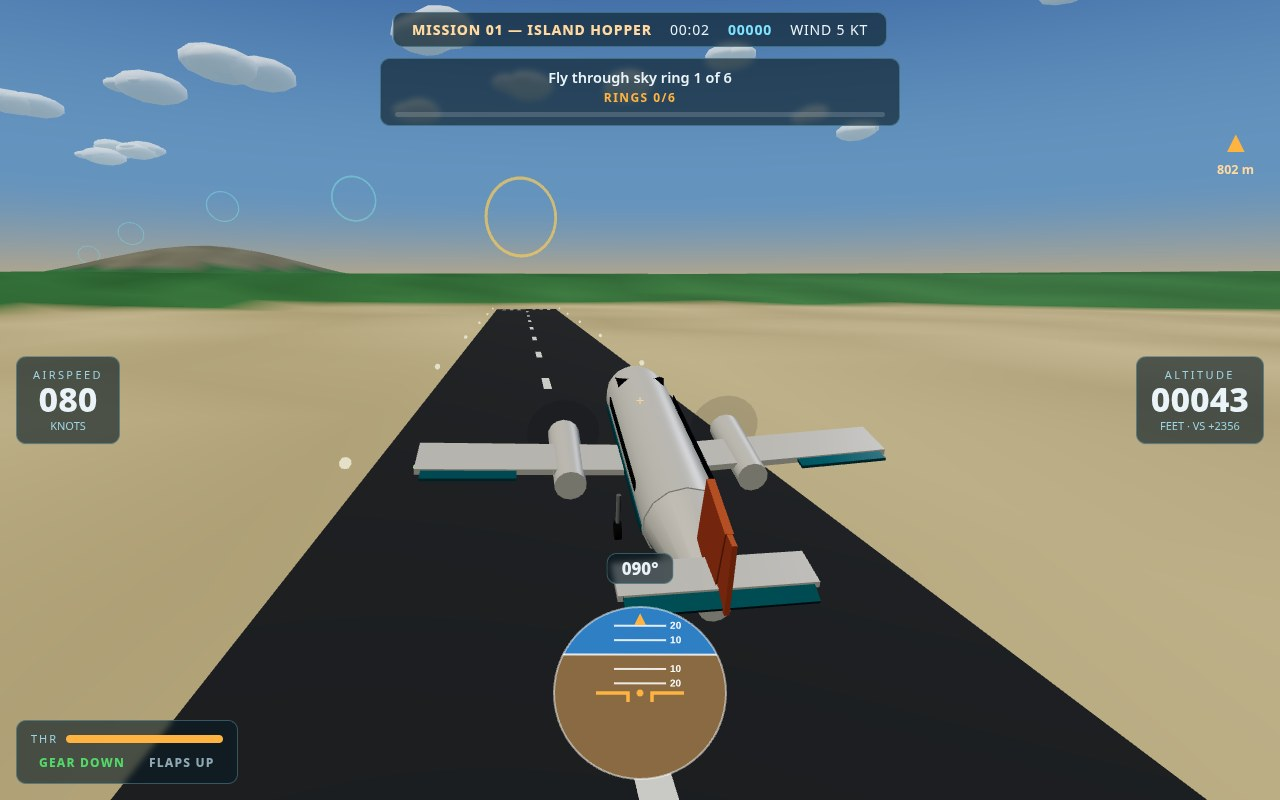
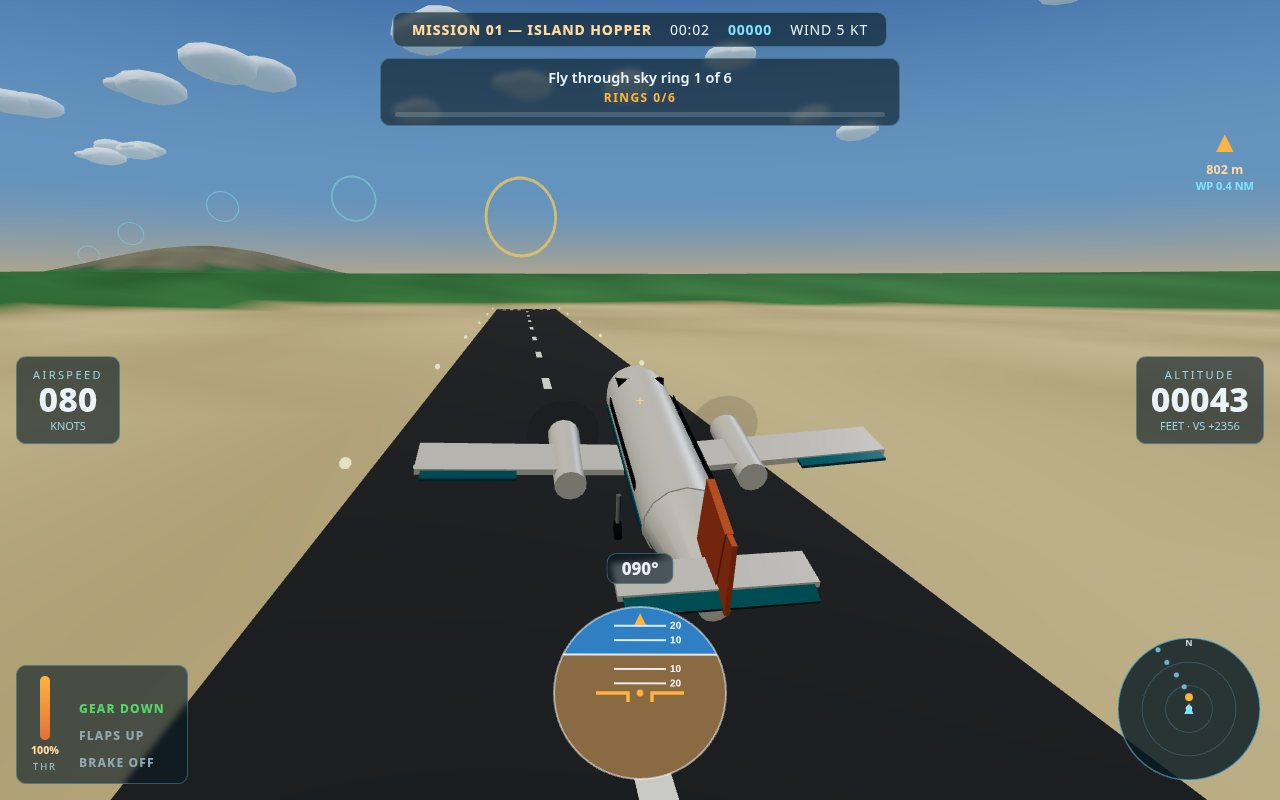
UI upgrade: glass mission panel with select + launch, radar scope, WP NM, vertical THR, brake chip (polish adopted from the Gemini original)

Changed region(s): [[0.0, 0.8125, 0.1875, 0.9688], [0.875, 0.7812, 1.0, 1.0], [0.9375, 0.1562, 1.0, 0.25]]

diff --git a/game/index.html b/game/index.html
@@ -31,25 +31,37 @@
   #hud-adist { font-size: 12.5px; font-weight: 700; color: #ffd9a0; }
   #hud-sys { position: absolute; left: 16px; bottom: 16px; padding: 10px 14px; display: flex; flex-direction: column; gap: 6px; min-width: 168px; }
   #thr-track { height: 8px; background: rgba(255,255,255,0.15); border-radius: 4px; overflow: hidden; }
-  #hud-thr { height: 100%; width: 0%; background: #ffb340; }
+  #hud-thr { height: 0%; width: 100%; background: linear-gradient(180deg, #ffb340, #e2703a); }
   .chip { font-size: 12px; font-weight: 800; letter-spacing: 0.1em; padding: 2px 8px; border-radius: 5px; display: inline-block; }
   .chip.ok { color: #53d769; } .chip.dim { color: #8fa8b3; } .chip.warn { color: #ffb340; }
   .sysrow { display: flex; gap: 8px; align-items: center; font-size: 11px; letter-spacing: 0.18em; color: #9fd4e2; }
   #hud-panel { position: absolute; bottom: 12px; left: 50%; transform: translateX(-50%); }
   #cross { position: absolute; top: 50%; left: 50%; transform: translate(-50%, -50%); color: rgba(255, 220, 150, 0.85); font-size: 15px; }
   /* Menu + debrief */
-  .overlay { position: fixed; inset: 0; display: flex; flex-direction: column; align-items: center; justify-content: center; padding-bottom: 170px; background: linear-gradient(180deg, rgba(6,20,30,0.25) 0%, rgba(6,20,30,0.62) 78%); z-index: 5; }
-  .overlay h1 { font-size: 58px; font-weight: 900; letter-spacing: 0.04em; text-shadow: 0 4px 26px rgba(0,0,0,0.55); }
-  .overlay h1 span { color: #ffb340; }
-  .overlay .sub { font-size: 16.5px; color: #cfe8f2; margin: 6px 0 22px; text-shadow: 0 2px 10px rgba(0,0,0,0.6); }
-  .cards { display: flex; gap: 14px; flex-wrap: wrap; justify-content: center; max-width: 1060px; padding: 0 12px; }
-  .card { width: 238px; padding: 14px 16px; cursor: pointer; pointer-events: auto; transition: transform 0.12s, border-color 0.12s; }
-  .card:hover { transform: translateY(-3px); border-color: #ffb340; }
-  .card h3 { font-size: 15.5px; color: #ffd9a0; margin-bottom: 6px; }
-  .card p { font-size: 12.5px; line-height: 1.45; color: #cfe0e8; min-height: 54px; }
-  .card .best { font-size: 12px; color: #7fe3ff; font-weight: 700; margin-top: 6px; }
-  .controls { margin-top: 22px; font-size: 12.5px; color: #b9d2dc; letter-spacing: 0.04em; text-align: center; line-height: 1.7; text-shadow: 0 1px 6px rgba(0,0,0,0.7); }
-  .controls b { color: #ffd9a0; }
+  .overlay { position: fixed; inset: 0; display: flex; flex-direction: column; align-items: center; justify-content: center; padding-bottom: 150px; background: linear-gradient(180deg, rgba(6,20,30,0.30) 0%, rgba(6,20,30,0.55) 80%); backdrop-filter: blur(2.5px); z-index: 5; }
+  #menu-panel { width: 780px; max-width: 94vw; padding: 26px 30px 20px; text-align: center; pointer-events: auto; border-radius: 18px; background: rgba(10, 24, 38, 0.88); border: 1px solid rgba(110, 190, 220, 0.35); box-shadow: 0 24px 70px rgba(0,0,0,0.5); }
+  #menu-panel .pill { display: inline-block; font-size: 11px; font-weight: 800; letter-spacing: 0.3em; color: #6ec8ec; border: 1px solid rgba(110,200,236,0.55); border-radius: 20px; padding: 4px 14px; margin-bottom: 10px; }
+  #menu-panel h1 { font-size: 46px; font-weight: 900; letter-spacing: 0.05em; color: #fff; }
+  #menu-panel h1 span { color: #4db8e8; }
+  #menu-panel .sub { font-size: 14.5px; color: #a9c6d4; margin: 2px 0 18px; }
+  .cards { display: grid; grid-template-columns: 1fr 1fr; gap: 12px; }
+  .card { padding: 13px 16px; cursor: pointer; pointer-events: auto; text-align: center; border-radius: 12px; background: rgba(24, 44, 62, 0.65); border: 1.5px solid rgba(120,170,200,0.25); transition: transform 0.12s, border-color 0.12s, background 0.12s; }
+  .card:hover { transform: translateY(-2px); }
+  .card.selected { border-color: #4db8e8; background: rgba(23, 78, 104, 0.75); box-shadow: 0 0 0 1px #4db8e8, 0 8px 26px rgba(30,120,170,0.35); }
+  .card .ctype { font-size: 10.5px; font-weight: 800; letter-spacing: 0.22em; color: #6ec8ec; }
+  .card h3 { font-size: 16.5px; color: #fff; margin: 3px 0 4px; }
+  .card p { font-size: 12.5px; line-height: 1.45; color: #b9cfdb; min-height: 36px; }
+  .card .best { font-size: 11.5px; color: #ffb340; font-weight: 800; letter-spacing: 0.08em; margin-top: 4px; }
+  #btn-launch { margin-top: 18px; width: 100%; padding: 14px; font-size: 16.5px; font-weight: 900; letter-spacing: 0.18em; color: #fff; background: linear-gradient(90deg, #0e8fd0, #2f6fe4); border: 0; border-radius: 10px; cursor: pointer; pointer-events: auto; box-shadow: 0 10px 30px rgba(20,110,200,0.45); }
+  #btn-launch:hover { filter: brightness(1.12); }
+  .keys { margin-top: 16px; display: flex; gap: 13px; justify-content: center; flex-wrap: wrap; font-size: 11.5px; color: #8fb0c0; }
+  .keys b { color: #6ec8ec; border: 1px solid rgba(110,200,236,0.5); border-radius: 5px; padding: 1px 6px; font-weight: 800; margin-right: 4px; }
+  #hud-radar { position: absolute; right: 16px; bottom: 16px; border-radius: 50%; }
+  #hud-wp { font-size: 11px; color: #7fe3ff; font-weight: 700; }
+  #thr-col { display: flex; flex-direction: column; align-items: center; gap: 3px; }
+  #thr-track-v { width: 10px; height: 64px; background: rgba(255,255,255,0.15); border-radius: 5px; display: flex; flex-direction: column-reverse; overflow: hidden; }
+  #hud-thr { width: 100%; background: linear-gradient(180deg, #ffb340, #e2703a); }
+  #hud-thrpct { font-size: 10.5px; font-weight: 800; color: #ffd9a0; }
   #debrief { display: none; }
   #deb-card { width: 430px; max-width: 92vw; padding: 22px 26px; text-align: center; pointer-events: auto; }
   #deb-card h2 { font-size: 25px; color: #ffd9a0; margin-bottom: 8px; }
@@ -67,21 +79,32 @@
     <div class="tape glass" id="tape-r"><div class="lab">ALTITUDE</div><div class="val" id="hud-alt">00000</div><div class="unit">FEET · VS <span id="hud-vs">+0000</span></div></div>
     <div id="hud-hdg" class="glass">000°</div>
     <div id="hud-alert"></div>
-    <div id="hud-target"><span id="hud-arrow">▲</span><div id="hud-adist"></div></div>
+    <div id="hud-target"><span id="hud-arrow">▲</span><div id="hud-adist"></div><div id="hud-wp"></div></div>
     <div id="hud-sys" class="glass">
-      <div class="sysrow">THR<div id="thr-track" style="flex:1"><div id="hud-thr"></div></div></div>
-      <div class="sysrow"><span id="hud-gear" class="chip ok">GEAR DOWN</span><span id="hud-flaps" class="chip dim">FLAPS UP</span></div>
+      <div style="display:flex; gap:12px; align-items:flex-end;">
+        <div id="thr-col"><div id="thr-track-v"><div id="hud-thr"></div></div><span id="hud-thrpct">0%</span><span style="font-size:9.5px; letter-spacing:0.2em; color:#9fd4e2;">THR</span></div>
+        <div style="display:flex; flex-direction:column; gap:6px;">
+          <span id="hud-gear" class="chip ok">GEAR DOWN</span>
+          <span id="hud-flaps" class="chip dim">FLAPS UP</span>
+          <span id="hud-brake" class="chip dim">BRAKE OFF</span>
+        </div>
+      </div>
     </div>
+    <canvas id="hud-radar" width="150" height="150"></canvas>
     <canvas id="hud-panel" width="300" height="190"></canvas>
     <div id="cross">+</div>
   </div>
 
   <div id="menu" class="overlay">
-    <h1>AERO<span>PILOT</span> 3D</h1>
-    <div class="sub">Twin-turboprop flight simulator — Emerald Bay to Coral Atoll. Take off, thread the rings, grease the landing.</div>
-    <div class="cards" id="menu-cards"></div>
-    <div class="controls">
-      <b>W/S</b> pitch · <b>A/D</b> roll · <b>Q/E</b> throttle · <b>F</b> flaps · <b>G</b> gear · <b>B</b> brakes · <b>C</b> camera · <b>R</b> restart · <b>Esc</b> menu
+    <div id="menu-panel">
+      <div class="pill">3D FLIGHT SIMULATOR</div>
+      <h1>AEROPILOT <span>3D</span></h1>
+      <div class="sub">Island Wings — twin-turboprop aviation over the Emerald Bay archipelago.</div>
+      <div class="cards" id="menu-cards"></div>
+      <button id="btn-launch">TAKE OFF / LAUNCH FLIGHT</button>
+      <div class="keys">
+        <span><b>W/S</b>Pitch</span><span><b>A/D</b>Roll</span><span><b>Q/E</b>Throttle</span><span><b>F</b>Flaps</span><span><b>G</b>Gear</span><span><b>B</b>Brakes</span><span><b>C</b>Camera</span><span><b>R</b>Restart</span>
+      </div>
     </div>
   </div>
 

diff --git a/game/src/hud.js b/game/src/hud.js
@@ -1,15 +1,16 @@
 // HUD facade: DOM tapes/cards plus the canvas attitude panel.
-import { KT, FPM, FT } from './config.js';
+import { KT, FPM, FT, AIRPORTS } from './config.js';
 
 const el = {};
 export function initHud() {
   for (const id of ['mname', 'timer', 'score', 'obj', 'rings', 'prog', 'spd', 'alt', 'vs', 'hdg',
-    'thr', 'gear', 'flaps', 'alert', 'arrow', 'adist', 'panel', 'wind']) el[id] = document.getElementById('hud-' + id);
+    'thr', 'thrpct', 'gear', 'flaps', 'brake', 'alert', 'arrow', 'adist', 'wp', 'panel', 'wind', 'radar']) el[id] = document.getElementById('hud-' + id);
   el.ctx = el.panel ? el.panel.getContext('2d') : null;
+  el.rctx = el.radar ? el.radar.getContext('2d') : null;
 }
 const fmt = (n, w) => String(Math.max(0, Math.round(n))).padStart(w, '0');
 
-export function updateHud(st, p, alert, target) {
+export function updateHud(st, p, alert, target, brake) {
   if (!el.mname) return;
   el.mname.textContent = st ? st.m.name : '';
   if (st) {
@@ -29,7 +30,12 @@ export function updateHud(st, p, alert, target) {
   el.vs.textContent = (vs >= 0 ? '+' : '−') + fmt(Math.abs(vs), 4);
   let hdg = Math.round(p.heading * 180 / Math.PI) % 360; if (hdg < 0) hdg += 360;
   el.hdg.textContent = fmt(hdg, 3) + '°';
-  el.thr.style.width = Math.round(p.throttle * 100) + '%';
+  el.thr.style.height = Math.round(p.throttle * 100) + '%';
+  if (el.thrpct) el.thrpct.textContent = Math.round(p.throttle * 100) + '%';
+  if (el.brake) {
+    el.brake.textContent = brake ? 'BRAKE ON' : 'BRAKE OFF';
+    el.brake.className = 'chip ' + (brake ? 'warn' : 'dim');
+  }
   el.gear.textContent = p.gearT > 0.85 ? 'GEAR DOWN' : p.gearT < 0.15 ? 'GEAR UP' : 'GEAR MOVING';
   el.gear.className = 'chip ' + (p.gearT > 0.85 ? 'ok' : p.gearT < 0.15 ? 'dim' : 'warn');
   el.flaps.textContent = 'FLAPS ' + ['UP', '1', 'FULL'][p.flaps];
@@ -41,10 +47,40 @@ export function updateHud(st, p, alert, target) {
     const bearing = Math.atan2(dx, -dz);
     let rel = bearing - p.heading;
     el.arrow.style.transform = `rotate(${rel * 180 / Math.PI}deg)`;
-    el.adist.textContent = Math.round(Math.hypot(dx, dz, target.y - p.y)) + ' m';
+    const dist = Math.hypot(dx, dz, target.y - p.y);
+    el.adist.textContent = Math.round(dist) + ' m';
+    if (el.wp) el.wp.textContent = 'WP ' + (dist / 1852).toFixed(1) + ' NM';
     el.arrow.style.opacity = '1';
-  } else el.arrow.style.opacity = '0';
+  } else { el.arrow.style.opacity = '0'; if (el.wp) el.wp.textContent = ''; }
+  drawRadar(st, p);
   drawPanel(p);
+}
+
+// Heading-up radar scope: airports and rings as blips around the aircraft.
+function drawRadar(st, p) {
+  const c = el.rctx; if (!c) return;
+  const S = 150, C = S / 2, R = C - 4, RANGE = 4800;
+  c.clearRect(0, 0, S, S);
+  c.fillStyle = 'rgba(8, 26, 34, 0.82)';
+  c.beginPath(); c.arc(C, C, R, 0, Math.PI * 2); c.fill();
+  c.strokeStyle = 'rgba(110, 200, 236, 0.5)'; c.lineWidth = 1.5;
+  c.beginPath(); c.arc(C, C, R, 0, Math.PI * 2); c.stroke();
+  c.strokeStyle = 'rgba(110, 200, 236, 0.22)'; c.lineWidth = 1;
+  for (const f of [0.66, 0.33]) { c.beginPath(); c.arc(C, C, R * f, 0, Math.PI * 2); c.stroke(); }
+  const blip = (wx, wz, color, size) => {
+    const dx = wx - p.x, dz = wz - p.z;
+    const d = Math.hypot(dx, dz); if (d > RANGE) return;
+    const rel = Math.atan2(dx, -dz) - p.heading;
+    const r = (d / RANGE) * R;
+    c.fillStyle = color;
+    c.beginPath(); c.arc(C + Math.sin(rel) * r, C - Math.cos(rel) * r, size, 0, Math.PI * 2); c.fill();
+  };
+  for (const a of AIRPORTS) blip(a.x, a.z, '#ffffff', 3);
+  if (st) st.m.rings.forEach((r, i) => { if (i >= st.ringsPassed) blip(r.x, r.z, i === st.ringIdx ? '#ffb340' : 'rgba(127,227,255,0.75)', i === st.ringIdx ? 4 : 2.5); });
+  c.fillStyle = '#7fe3ff';
+  c.beginPath(); c.moveTo(C, C - 6); c.lineTo(C + 4.5, C + 5); c.lineTo(C - 4.5, C + 5); c.closePath(); c.fill();
+  c.fillStyle = 'rgba(234,246,251,0.85)';
+  c.font = '700 9px system-ui'; c.textAlign = 'center'; c.fillText('N', C, 12);
 }
 
 function drawPanel(p) {

diff --git a/game/src/main.js b/game/src/main.js
@@ -50,17 +50,26 @@ function showMenu() {
   setRings(scene, world, []);
   poseAircraft(craft, plane, null);
 }
+const TYPE_LABELS = { full_flight: 'FULL FLIGHT', rings_only: 'TIME TRIAL', landing_challenge: 'LANDING CHALLENGE', sandbox: 'SANDBOX · EXPLORATION' };
+let selectedId = 'island_hopper';
 function buildMenu() {
   const wrap = document.getElementById('menu-cards');
   wrap.innerHTML = '';
   for (const m of MISSIONS) {
     const card = document.createElement('div');
-    card.className = 'card glass';
-    card.innerHTML = `<h3>${m.name}</h3><p>${m.brief}</p><div class="best">${best[m.id] ? 'BEST ' + best[m.id] : 'NOT FLOWN YET'}</div>`;
-    card.onclick = () => { Sfx.init(); startMission(m.id, false); };
+    card.className = 'card' + (m.id === selectedId ? ' selected' : '');
+    card.dataset.id = m.id;
+    card.innerHTML = `<div class="ctype">${TYPE_LABELS[m.type] || 'MISSION'}</div><h3>${m.name.replace(/^MISSION \d+ — /, '')}</h3><p>${m.brief}</p><div class="best">${best[m.id] ? 'BEST ' + best[m.id] : 'NOT FLOWN YET'}</div>`;
+    card.onclick = () => {
+      selectedId = m.id;
+      wrap.querySelectorAll('.card').forEach((c) => c.classList.toggle('selected', c.dataset.id === selectedId));
+      Sfx.init();
+    };
+    card.ondblclick = () => { Sfx.init(); startMission(m.id, false); };
     wrap.appendChild(card);
   }
 }
+document.getElementById('btn-launch').onclick = () => { Sfx.init(); startMission(selectedId, false); };
 function startMission(id, autopilot) {
   const m = mission(id);
   plane = spawnFor(m);
@@ -101,6 +110,7 @@ document.getElementById('deb-menu').onclick = () => { buildMenu(); showMenu(); }
 
 addEventListener('keydown', (e) => {
   keys.add(e.code);
+  if (mode === 'menu' && e.code === 'Enter') { Sfx.init(); startMission(selectedId, false); return; }
   if (mode !== 'fly' || !plane) return;
   if (e.code === 'KeyF') { plane.flaps = (plane.flaps + 1) % 3; Sfx.servo(); }
   if (e.code === 'KeyG') { plane.gearDown = !plane.gearDown; Sfx.servo(); }
@@ -201,7 +211,7 @@ function frame() {
     let target = null;
     if (st.ringIdx < st.m.rings.length) target = st.m.rings[st.ringIdx];
     else if (st.m.targetAirport) { const th = threshold(airport(st.m.targetAirport)); target = { x: th.x, y: airport(st.m.targetAirport).elev + 10, z: th.z }; }
-    updateHud(st, plane, alert, target);
+    updateHud(st, plane, alert, target, !!(curInput && curInput.brake));
   }
   updateCamera(1 / 30);
   renderer.render(scene, camera);

diff --git a/entry-status.md b/entry-status.md
@@ -1,0 +1,27 @@
+# AEROPILOT 3D (best-flight-game-20261126-0057 VERSION 6) — entry status
+
+- Origin: Gemini-provided project zip from the owner (Thu 2026-11-26 18:32 WIB,
+  `~/workspace/user/files/aeropilot-3d-makefun.zip`: AGENT_GUIDE + modular source).
+  Design adopted (twin-turboprop airliner sim, 2 airports, 4 missions, landing
+  grader, GPWS); implementation re-authored in-session by Muse (V2/V5 pattern).
+- Repo: `~/workspace/makefun/flight-game6` — anchor `449c9bfd731f9030a53d3e8f29fe36df8955773f`
+  (drand round 34296575), LICENSE `f83ae6b`, content commit
+  `19ad551d0a7202be889704bd833712400c93c59b`.
+- GitHub: github.com/dikokun/aeropilot-3d (remote HEAD verified = 19ad551).
+- Bundle: `~/workspace/makefun/flight6-bundle.tar.gz` (622,585 B,
[1 lines of base64/hex data omitted]
+- Kit check: 15 passed, 0 failed — thinking_reproduces 1,110/1,124 authored (98.7%).
+- Dossier: double-run byte-identical; clean-room clone of HEAD byte-identical.
+  dossier.json 570,645 B.
+- Sim proof (`node sim6.mjs`): 3/3 scored missions complete under autopilot —
+  island_hopper 158 s, 6/6 rings, BUTTER 157 fpm, stops on Coral RWY;
+  canyon_slalom 10/10 rings; final_approach BUTTER 164 fpm in a 15 kt crosswind.
+- Screenshots (1280x800, <=256 KiB): 1-menu 106,321 B · 2-takeoff 85,996 B ·
+  3-rings 94,520 B · 4-landing 95,609 B. All read firsthand.
+- NOT SUBMITTED. Preview delivered Thu 2026-11-26 ~18:56 WIB; awaiting the
+  owner's submit word. Submitting moves the final pick off V2 (SKYWARD FURY
+  re-submission `01a215d0-f36f-719c-85bf-cc5aa25f3650`).
+- Submit command (from `~/workspace/makefun/flight-game/kit`):
+  `node cli/makefun.mjs submit --competition best-flight-game-20261126-0057 --source ~/workspace/makefun/flight-game6 --commit 19ad551d0a7202be889704bd833712400c93c59b --bundle ~/workspace/makefun/flight6-bundle.tar.gz --keypair ~/workspace/makefun/makefun-keypair.json`
+  then move the final pick to the new submission and verify by read-back.
+- Deadline: Sat 2026-11-28 07:57 WIB.
